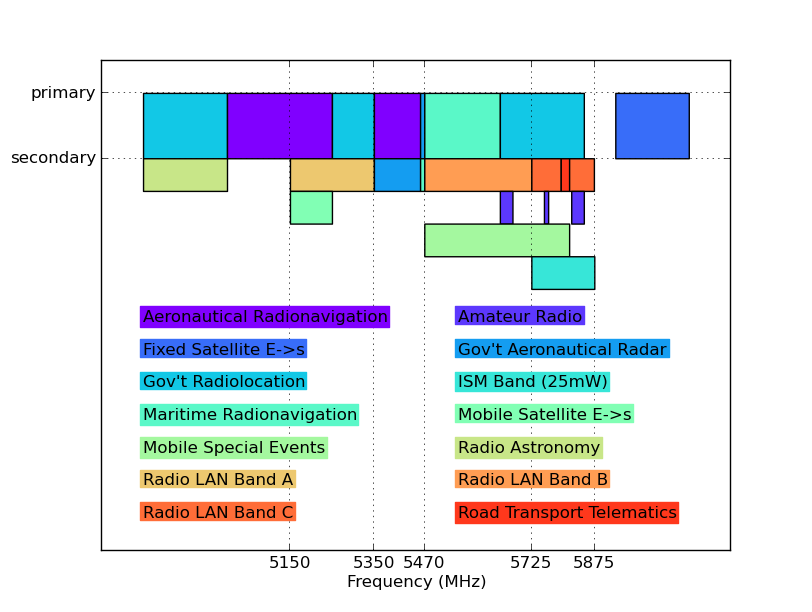
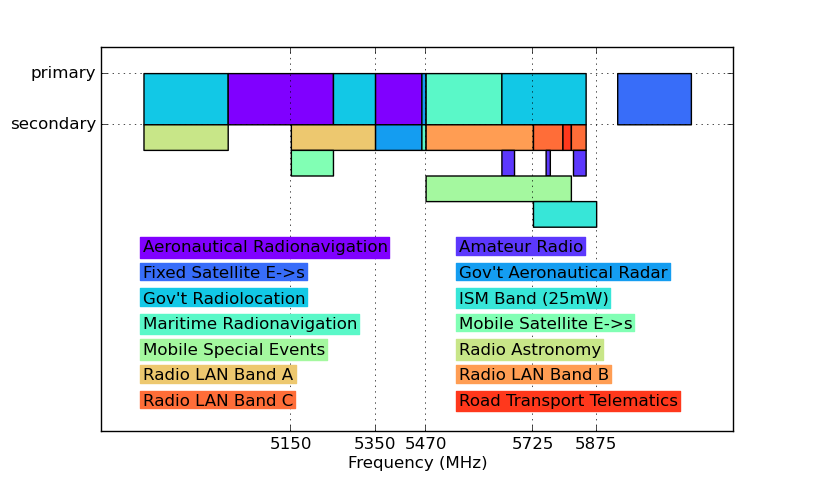
reunfixit

Changed region(s): [[0.0, 0.0938, 0.9236, 1.0], [0.0308, 0.0938, 0.1539, 0.1875], [0.8929, 0.125, 0.9236, 0.1562]]

diff --git a/howto/spectrum.py b/howto/spectrum.py
@@ -16,7 +16,7 @@ secondary = [
 	{ "band": (5470, 255), "desc": "Radio LAN Band B" },
 	{ "band": (5725,  70), "desc": "Radio LAN Band C" },
 	{ "band": (5795,  20), "desc": "Road Transport Telematics"},
-        { "band": (5815,  59), "desc": "Radio LAN Band C" },
+        { "band": (5815,  35), "desc": "Radio LAN Band C" },
 ]
 tertiary = [
 	{ "band": (5150, 100), "desc": "Mobile Satellite E->s" },
